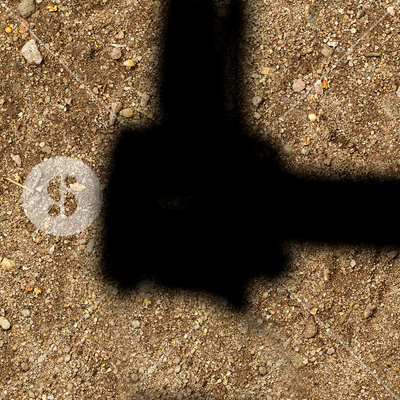
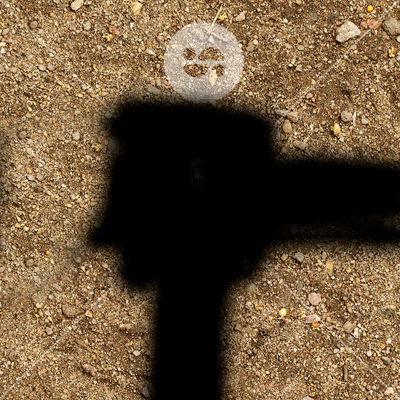
Fixed tile drawing + added failing test

diff --git a/Test/BackEnd/GameboardTest.java b/Test/BackEnd/GameboardTest.java
@@ -105,6 +105,11 @@ class GameboardTest {
 
 	@Test
 	void getMoveDirections() {
+		gb.getMoveDirections(0);
+		gb.getMoveDirections(1);
+		gb.getMoveDirections(2);
+		gb.getMoveDirections(3);
+
 	}
 
 	@Test
